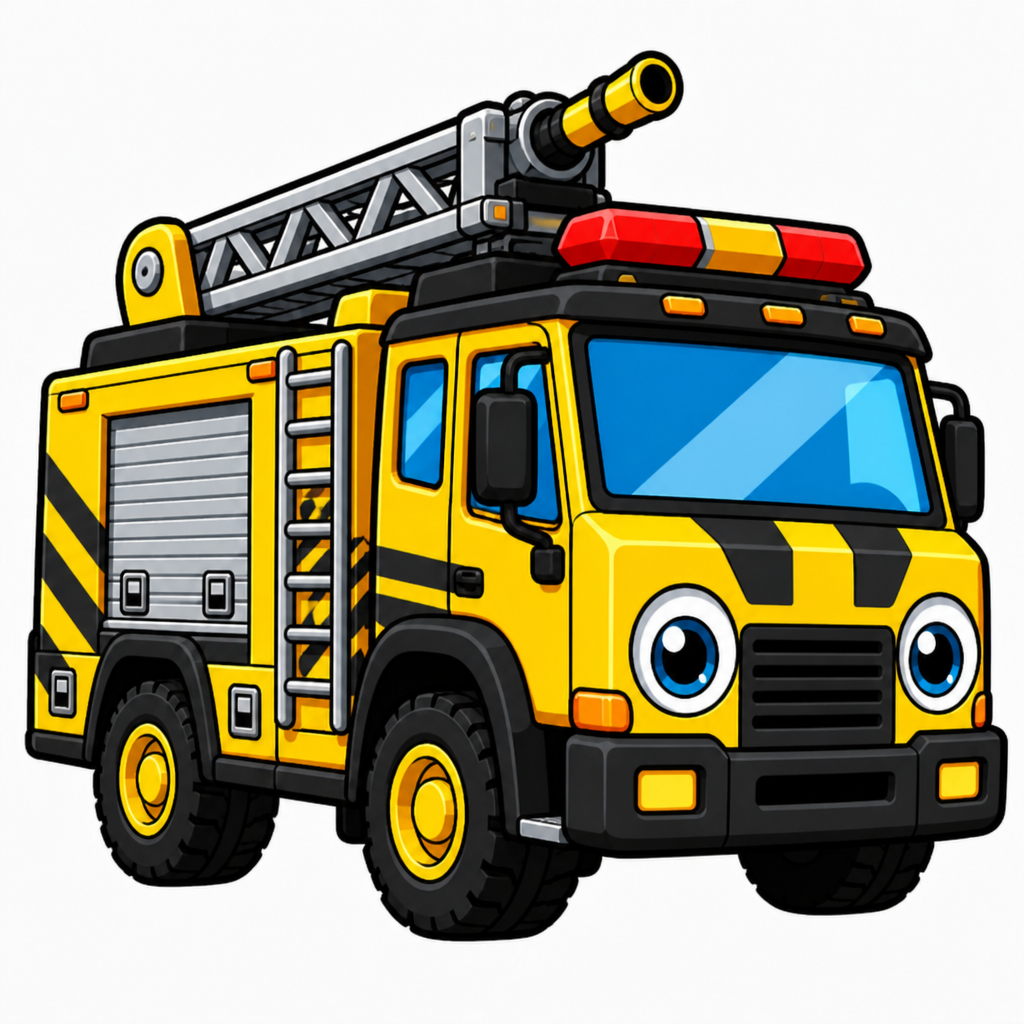
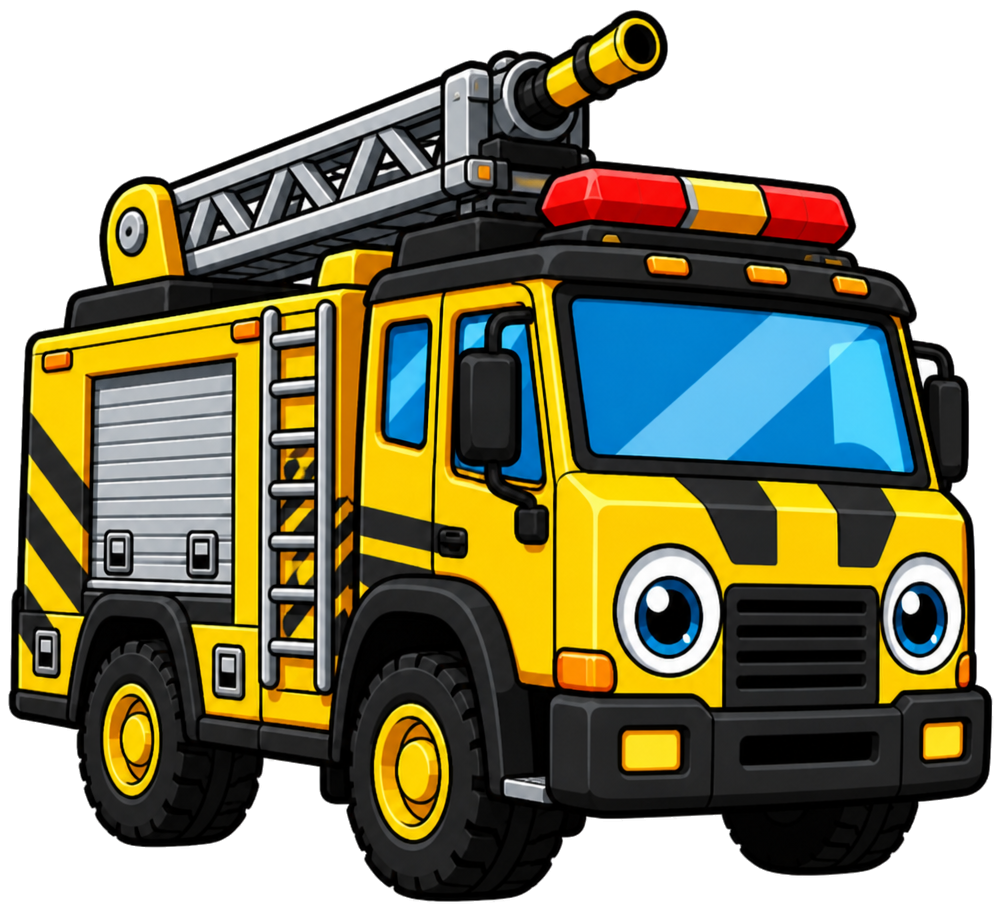
Remove white sprite backdrops and enlarge in-game art.
Process assets to RGBA, assert transparency in tests, and bump display scale.

diff --git a/scripts/process_art_alpha.py b/scripts/process_art_alpha.py
@@ -1,0 +1,96 @@
+#!/usr/bin/env python3
+"""Make Style-C art PNGs usable in Godot: remove white backdrop, crop, keep RGBA."""
+from __future__ import annotations
+
+import sys
+from collections import deque
+from pathlib import Path
+
+from PIL import Image
+
+ART = Path(__file__).resolve().parents[1] / "assets" / "art"
+WHITE_MIN = 245
+NEAR_WHITE = 230
+PAD = 8
+
+
+def is_white(px: tuple[int, ...], threshold: int = WHITE_MIN) -> bool:
+    r, g, b = px[0], px[1], px[2]
+    return r >= threshold and g >= threshold and b >= threshold
+
+
+def border_white_mask(im: Image.Image) -> set[tuple[int, int]]:
+    """Pixels that are near-white and connected to the image border."""
+    w, h = im.size
+    px = im.load()
+    visited: set[tuple[int, int]] = set()
+    q: deque[tuple[int, int]] = deque()
+
+    def try_push(x: int, y: int) -> None:
+        if 0 <= x < w and 0 <= y < h and (x, y) not in visited and is_white(px[x, y]):
+            visited.add((x, y))
+            q.append((x, y))
+
+    for x in range(w):
+        try_push(x, 0)
+        try_push(x, h - 1)
+    for y in range(h):
+        try_push(0, y)
+        try_push(w - 1, y)
+
+    while q:
+        x, y = q.popleft()
+        try_push(x - 1, y)
+        try_push(x + 1, y)
+        try_push(x, y - 1)
+        try_push(x, y + 1)
+
+    return visited
+
+
+def process(path: Path) -> None:
+    im = Image.open(path).convert("RGBA")
+    bg = border_white_mask(im)
+    px = im.load()
+    w, h = im.size
+
+    for x, y in bg:
+        r, g, b, _a = px[x, y]
+        px[x, y] = (r, g, b, 0)
+
+    # Soft fringe around removed backdrop
+    for x, y in list(bg):
+        for nx, ny in ((x - 1, y), (x + 1, y), (x, y - 1), (x, y + 1)):
+            if not (0 <= nx < w and 0 <= ny < h):
+                continue
+            if (nx, ny) in bg:
+                continue
+            r, g, b, a = px[nx, ny]
+            if is_white((r, g, b), NEAR_WHITE) and a > 64:
+                px[nx, ny] = (r, g, b, 64)
+
+    bbox = im.getbbox()
+    if bbox:
+        left, top, right, bottom = bbox
+        left = max(0, left - PAD)
+        top = max(0, top - PAD)
+        right = min(w, right + PAD)
+        bottom = min(h, bottom + PAD)
+        im = im.crop((left, top, right, bottom))
+
+    im.save(path, "PNG", optimize=True)
+    print(f"OK  {path.name} -> {im.size[0]}x{im.size[1]} mode={im.mode}")
+
+
+def main() -> int:
+    files = sorted(ART.glob("*.png"))
+    if not files:
+        print("No PNGs in", ART, file=sys.stderr)
+        return 1
+    for path in files:
+        process(path)
+    return 0
+
+
+if __name__ == "__main__":
+    raise SystemExit(main())

diff --git a/.cursor/agents/comic-rettung-art.md b/.cursor/agents/comic-rettung-art.md
@@ -34,7 +34,8 @@ Canonical moodboard (must load and visually match):
 2. **Read** (image Read tool) at least the relevant C references above — for characters read mech + vehicle; for world/base read umgebung + basis; for anything ambiguous read all four.
 3. Draft prompts that restate: thick black outlines, flat cel fills, max 1–2 shadow tones, kid-friendly 6–8, no gore, no text/logos unless asked.
 4. Generate with `GenerateImage`, always passing matching files in `reference_image_paths` (absolute paths under the project `docs/design-refs/`).
-5. Copy finished PNGs into the requested project folder (default `docs/design-refs/` or `assets/art/` if creating game-ready set). Prefer clear names: `c-<subject>-<variant>.png`.
+5. Copy finished PNGs into the requested project folder (default `docs/design-refs/` or `assets/art/` if creating game-ready set). Prefer clear names: `c-<subject>-<variant>.png` or `assets/art/<id>_robot.png`.
+5b. **Game-ready sprites MUST have transparent backgrounds** (no solid white plates). After generation, run `python3 scripts/process_art_alpha.py` on `assets/art/` (or export with real alpha). Opaque white frames are a defect.
 6. If the user asked for animation: produce an ordered **frame sequence** (separate PNGs or one spritesheet) plus a short Godot note (`AnimatedSprite2D` / `SpriteFrames` frame order, suggested FPS).
 7. Return to the parent: file paths created, what each asset is for, and any style deviations you could not avoid.
 

diff --git a/docs/STYLE-BIBLE-C.md b/docs/STYLE-BIBLE-C.md
@@ -26,6 +26,7 @@ Subagent: `.cursor/agents/comic-rettung-art.md` — lädt diese Bilder vor jeder
 5. Transformationen: **snappy** Pose-zu-Pose, keine weichen Morphs
 6. **Mech ↔ Fahrzeug-Lesbarkeit:** Die Robot-Form muss das jeweilige Hauptfahrzeug klar andeuten (Kabinen, Leitern, Rumpf, Propeller, Spoiler, Reifen als Körperteile) — wie bei Rescue Bots, Stil C  
    - Bolt → Feuerwehrwagen · Marina → Boot/Hovercraft · **Rush → roter Elektro-Supercar**
+7. **Spiel-Sprites:** Transparente Hintergründe (RGBA). Keine weißen „Karten“/Platten. Nach Generierung: `python3 scripts/process_art_alpha.py`
 
 ## Palette
 

diff --git a/README.md b/README.md
@@ -60,8 +60,12 @@ MVP-Umsetzung: **M0–M2** erledigt; spielbar: Bolt, Marina, **Rush** (roter Sup
 # Automatisierte Smoke-Tests
 ./scripts/run_tests.sh
 
-# Spiel starten (siehe auch Starter oben)
-./play-linux.sh
+# Spiel starten (aktuelle Sprites)
+godot --path .
+# oder: ./play-linux.sh
+
+# Nach neuer Art-Generierung: weiße Hintergründe entfernen
+python3 scripts/process_art_alpha.py
 ```
 
 Tests: `tests/smoke_test.gd` via `./scripts/run_tests.sh`. GdUnit4/GUT Follow-up später.
